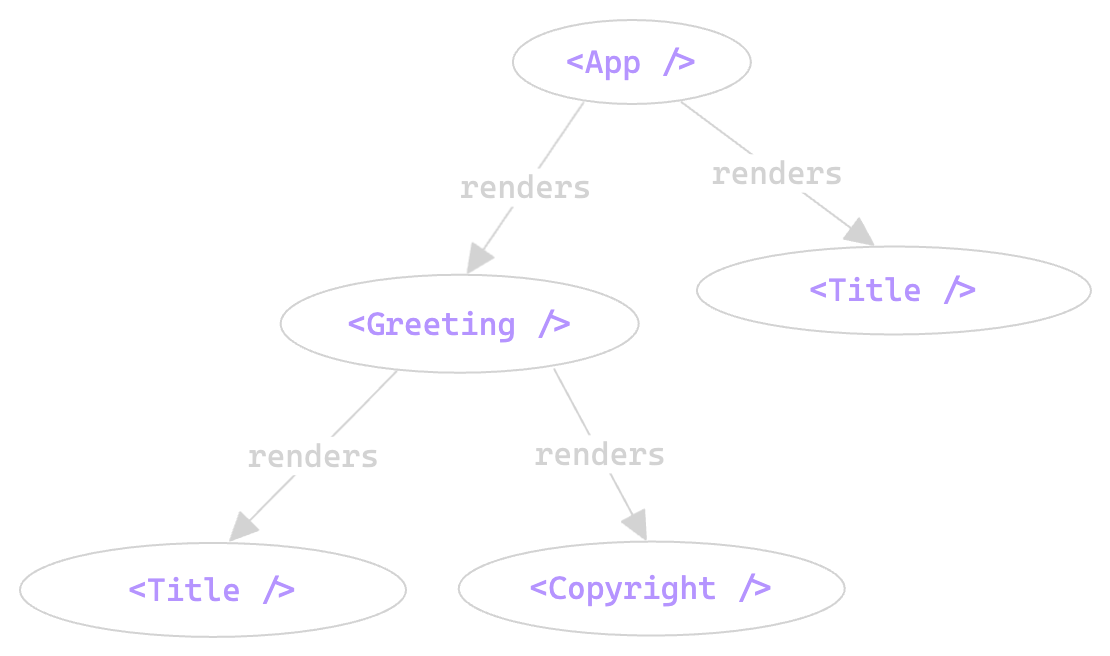
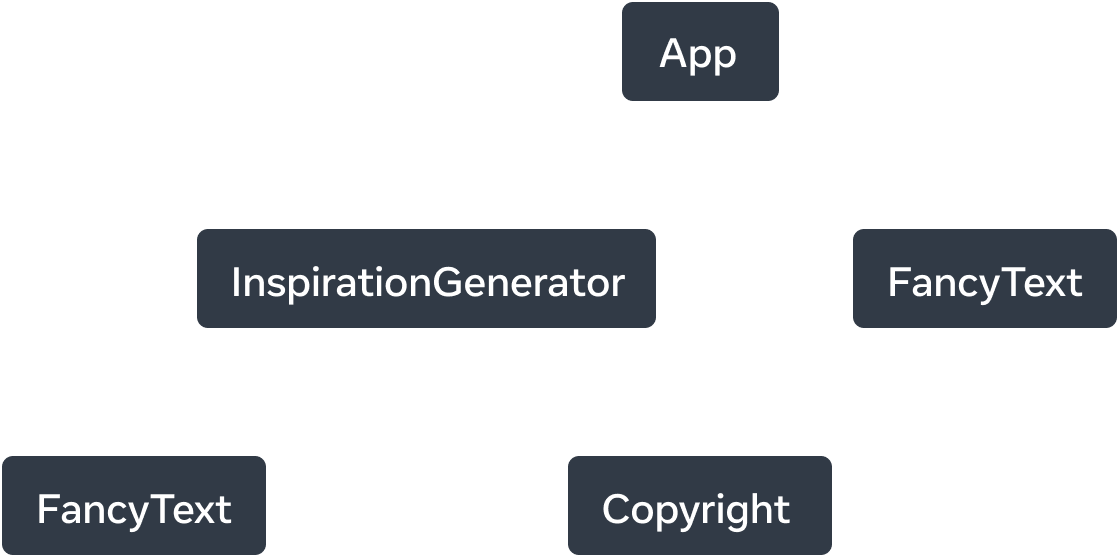
address feedback and update images

diff --git a/src/content/learn/understanding-your-ui-as-a-tree.md b/src/content/learn/understanding-your-ui-as-a-tree.md
@@ -20,14 +20,14 @@ React, and many other UI libraries, model UI as a tree. Thinking of your app as 
 
 ## Your UI as a tree {/*your-ui-as-a-tree*/}
 
-Trees are a relationship model between items and UI is often represented using tree structures. For example on browsers, the [DOM](https://developer.mozilla.org/docs/Web/API/Document_Object_Model/Introduction) represents HTML elements while the [CSSOM](https://developer.mozilla.org/docs/Web/API/CSS_Object_Model) does the same for CSS. Similar for mobile, platform views relate to one another in a tree format. There’s even an [Accessibility tree](https://developer.mozilla.org/docs/Glossary/Accessibility_tree)!
+Trees are a relationship model between items and UI is often represented using tree structures. For example, browsers use tree structures to model HTML ([DOM](https://developer.mozilla.org/docs/Web/API/Document_Object_Model/Introduction)) and CSS ([CSSOM](https://developer.mozilla.org/docs/Web/API/CSS_Object_Model)). Mobile platforms also use trees to represent their view hierarchy. 
 
 <Diagram name="preserving_state_dom_tree" height={193} width={864} alt="Diagram with three sections arranged horizontally. In the first section, there are three rectangles stacked vertically, with labels 'Component A', 'Component B', and 'Component C'. Transitioning to the next pane is an arrow with the React logo on top labeled 'React'. The middle section contains a tree of components, with the root labeled 'A' and two children labeled 'B' and 'C'. The next section is again transitioned using an arrow with the React logo on top labeled 'React'. The third and final section is a wireframe of a browser, containing a tree of 8 nodes, which has only a subset highlighted (indicating the subtree from the middle section).">
 
-From components, React creates a UI tree which React DOM uses to render the DOM
+React creates a UI tree from your components. In this example, the UI tree is then used to render to the DOM.
 </Diagram>
 
-React also uses tree structures to manage and model the relationship between components in a React app. These trees are useful tools to understand how data flows through a React app and how to optimize rendering and app size.
+Like browsers and mobile platforms, React also uses tree structures to manage and model the relationship between components in a React app. These trees are useful tools to understand how data flows through a React app and how to optimize rendering and app size.
 
 ## The Render Tree {/*the-render-tree*/}
 
@@ -35,51 +35,51 @@ A major feature of components is the ability to compose components of other comp
 
 When we render a React app, we can model this relationship in a tree, known as the render tree.
 
-Here is a React app that renders a random greeting. 
+Here is a React app that renders inspirational quotes. 
 
 <Sandpack>
 
 ```js App.js
-import Title from './Title';
-import Greeting from './Greeting';
+import FancyText from './FancyText';
+import InspirationGenerator from './InspirationGenerator';
 import Copyright from './Copyright';
 
 export default function App() {
   return (
     <>
-      <Title text="Generate a random greeting" />
-      <Greeting>
+      <FancyText title text="Get Inspired App" />
+      <InspirationGenerator>
         <Copyright year={2004} />
-      </Greeting>
+      </InspirationGenerator>
     </>
   );
 }
 
 ```
 
-```js Title.js
-export default function Title({fancy, text}) {
-    return <h1 className={fancy ? 'fancy' : ''}>{text}</h1>;
+```js FancyText.js
+export default function FancyText({title, text}) {
+  return title
+    ? <h1 className='fancy title'>{text}</h1>
+    : <h3 className='fancy cursive'>{text}</h3>
 }
 ```
 
-```js Greeting.js
+```js InspirationGenerator.js
 import * as React from 'react';
-import greetings from './greetings';
-import Title from './Title';
+import quotes from './quotes';
+import FancyText from './FancyText';
 
-function randIndex(max) {
-  return Math.floor(Math.random() * max);
-}
+export default function InspirationGenerator({children}) {
+  const [index, setIndex] = React.useState(0);
+  const quote = quotes[index];
+  const next = () => setIndex((index + 1) % quotes.length);
 
-export default function Greeting({children}) {
-  const [index, setIndex] = React.useState(randIndex(greetings.length));
-  const greeting = greetings[index];
-  const nextGreeting = () => setIndex(randIndex(greetings.length));
   return (
     <>
-      <Title fancy text={greeting} />
-      <button onClick={nextGreeting}>🎲</button>
+      <p>Your inspirational quote is:</p>
+      <FancyText text={quote} />
+      <button onClick={next}>Inspire me again</button>
       {children}
     </>
   );
@@ -88,42 +88,55 @@ export default function Greeting({children}) {
 
 ```js Copyright.js
 export default function Copyright({year}) {
-  return <p>© {year}</p>;
+  return <p className='small'>© {year}</p>;
 }
 ```
 
-```js greetings.js
-export default ['Howdy!', 'Hello2!', 'Hello3!', 'Hello3!', 'Hello4!'];
+```js quotes.js
+export default [
+  "Don’t let yesterday take up too much of today.” — Will Rogers",
+  "Ambition is putting a ladder against the sky.",
+  "A joy that's shared is a joy made double.",
+  ];
 ```
 
 ```css
 .fancy {
-    font-style: italic;
-    color: blue;
+  font-family: 'Georgia';
+}
+.title {
+  color: #007AA3;
+  text-decoration: underline;
+}
+.cursive {
+  font-style: italic;
+}
+.small {
+  font-size: 10px;
 }
 ```
 
 </Sandpack>
 
-<Diagram name="render_tree" height={300} width={509} alt="Tree graph with 5 nodes. The root of the tree is App, with two arrows extending from it to nodes Greeting and Title. The arrows are labelled renders. Greeting node also has two arrows extended pointing down to nodes Title and Copyright.">
+<Diagram name="render_tree" height={250} width={500} alt="Tree graph with five nodes. Each node represents a component. The root of the tree is App, with two arrows extending from it to 'InspirationGenerator' and 'FancyText'. The arrows are labelled with the word 'renders'. 'InspirationGenerator' node also has two arrows pointing to nodes 'FancyText' and 'Copyright'.">
 
 React creates a UI tree made of components rendered, known as a render tree.
 
 </Diagram>
 
-From the example app, we can construct the above render tree. Each node in the tree represents a component and the root node is the [root component](/learn/importing-and-exporting-components#the-root-component-file). In this case, the root component is `App` and it is the first component React renders. Each arrow in the tree points from a parent component to a child component.
+From the example app, we can construct the above render tree. 
 
-We often refer to the components near the root of the tree as "top-level components". They are ancestors and have a lot of descendent components. Components that have no children are referred to as "leaves". 
+The tree is composed of nodes, each of which represents a component. `App`, `FancyText`, `Copyright`, to name a few, are all nodes in our tree. 
 
+The root node in a React render tree is the [root component](/learn/importing-and-exporting-components#the-root-component-file) of the app. In this case, the root component is `App` and it is the first component React renders. Each arrow in the tree points from a parent component to a child component.
 
-[comment]: <> (I'm not sure if we should have this, I think I'm trying to get the point across that render trees are platform-agnostic tool for understanding your React app)
 <DeepDive>
 
 #### Where are the HTML tags in the render tree? {/*where-are-the-html-elements-in-the-render-tree*/}
 
 You'll notice in the above render tree, there is no mention of the HTML tags that each component renders. This is because the render tree is only composed of React [components](learn/your-first-component#components-ui-building-blocks). 
 
-React, as a UI framework, is platform agonistic. On react.dev, we showcase examples that render to the web, which uses HTML markup as its UI primitives. But a React app could just as likely render to a mobile or desktop platform, which may use different UI primitives like [UIView](https://developer.apple.com/documentation/uikit/uiview) or [Framework Element](https://learn.microsoft.com/en-us/dotnet/api/system.windows.frameworkelement?view=windowsdesktop-7.0).
+React, as a UI framework, is platform agnostic. On react.dev, we showcase examples that render to the web, which uses HTML markup as its UI primitives. But a React app could just as likely render to a mobile or desktop platform, which may use different UI primitives like [UIView](https://developer.apple.com/documentation/uikit/uiview) or [Framework Element](https://learn.microsoft.com/en-us/dotnet/api/system.windows.frameworkelement?view=windowsdesktop-7.0).
 
 These platform UI primitives are not a part of React. React render trees can provide insight to our React app regardless of what platform your app renders to.
 
@@ -131,99 +144,115 @@ These platform UI primitives are not a part of React. React render trees can pro
 
 A render tree represents a single render pass of a React application. With [conditional rendering](/learn/conditional-rendering), a parent component may render different children depending on the data passed.
 
-We can update the Greeting app to conditionally render either an image or a text greeting.
+We can update the app to conditionally render either an inspirational quote or color.
 
 <Sandpack>
 
 ```js App.js
-import { Title } from './GreetingMedia';
-import Greeting from './Greeting';
+import FancyText from './FancyText';
+import InspirationGenerator from './InspirationGenerator';
 import Copyright from './Copyright';
 
 export default function App() {
   return (
     <>
-      <Title text="Generate a random greeting" />
-      <Greeting>
+      <FancyText title text="Get Inspired App" />
+      <InspirationGenerator>
         <Copyright year={2004} />
-      </Greeting>
+      </InspirationGenerator>
     </>
   );
 }
 
 ```
 
-```js GreetingMedia.js
-export function Title({fancy, text}) {
-  return <h1 className={fancy ? 'fancy' : ''}>{text}</h1>;
-}
-
-export function Image({src}) {
-  return <img src={src} />;
+```js FancyText.js
+export default function FancyText({title, text}) {
+  return title
+    ? <h1 className='fancy title'>{text}</h1>
+    : <h3 className='fancy cursive'>{text}</h3>
 }
 ```
 
-```js Greeting.js
-import * as React from 'react';
-import greetings from './greetings';
-import {Title, Image} from './GreetingMedia';
-
-function randIndex(max) {
-  return Math.floor(Math.random() * max);
+```js Color.js
+export default function Color({value}) {
+  return <div className="colorbox" style={{backgroundColor: value}} / >
 }
+```
 
-export default function Greeting({children}) {
-  const [index, setIndex] = React.useState(randIndex(greetings.length));
-  const greeting = greetings[index];
-  const nextGreeting = () => setIndex(randIndex(greetings.length));
+```js InspirationGenerator.js
+import * as React from 'react';
+import inspirations from './inspirations';
+import FancyText from './FancyText';
+import Color from './Color';
+
+export default function InspirationGenerator({children}) {
+  const [index, setIndex] = React.useState(0);
+  const inspiration = inspirations[index];
+  const next = () => setIndex((index + 1) % inspirations.length);
+
   return (
     <>
-      {greeting.type === 'text' ? (
-        <Title fancy text={greeting.value} />
-      ) : (
-        <Image src={greeting.value} />
-      )}
-      <button onClick={nextGreeting}>🎲</button>
+      <p>Your inspirational {inspiration.type} is:</p>
+      {inspiration.type === 'quote'
+      ? <FancyText text={inspiration.value} />
+      : <Color value={inspiration.value} />}
+      
+      <button onClick={next}>Inspire me again</button>
       {children}
     </>
   );
 }
-
 ```
 
 ```js Copyright.js
 export default function Copyright({year}) {
-  return <p>© {year}</p>;
+  return <p className='small'>© {year}</p>;
 }
 ```
 
-```js greetings.js
+```js inspirations.js
 export default [
-    {type: 'text', value: 'Howdy!'},
-    {type: 'text', value: 'Hello!'},
-    {type: 'image', value: 'https://i.imgur.com/yXOvdOSs.jpg'},
-    {type: 'image', value: 'https://i.imgur.com/yXOvdOSs.jpg'},
-    {type: 'text', value: 'Howdy!'},
+  {type: 'quote', value: "Don’t let yesterday take up too much of today.” — Will Rogers"},
+  {type: 'color', value: "#B73636"},
+  {type: 'quote', value: "Ambition is putting a ladder against the sky."},
+  {type: 'color', value: "#256266"},
+  {type: 'quote', value: "A joy that's shared is a joy made double."},
+  {type: 'color', value: "#F9F2B4"},
 ];
 ```
 
 ```css
 .fancy {
-    font-style: italic;
-    color: blue;
+  font-family: 'Georgia';
+}
+.title {
+  color: #007AA3;
+  text-decoration: underline;
+}
+.cursive {
+  font-style: italic;
+}
+.small {
+  font-size: 10px;
+}
+.colorbox {
+  height: 100px;
+  width: 100px;
+  margin: 8px;
 }
 ```
 </Sandpack>
 
-<Diagram name="conditional_render_tree" height={300} width={522} alt="TODO.">
+<Diagram name="conditional_render_tree" height={250} width={561} alt="Tree graph with six nodes. The top node of the tree is labelled 'App' with two arrows extending to nodes labelled 'InspirationGenerator' and 'FancyText'. The arrows are solid lines and are labelled with the word 'renders'. 'InspirationGenerator' node also has three arrows. The arrows to nodes 'FancyText' and 'Color' are dashed and labelled with 'renders?'. The last arrow points to the node labelled 'Copyright' and is solid and labelled with 'renders'.">
 
 With conditional rendering, across different renders, the render tree may render different components.
 
 </Diagram>
 
-In this example, depending on what `greeting.type` is, we may render `<Title>` or `<Image>`. The render tree may be different for each render pass.
+In this example, depending on what `inspiration.type` is, we may render `<FancyText>` or `<Color>`. The render tree may be different for each render pass.
 
-Although render trees may differ across render pases, these trees are generally helpful for identifying what the top-level components are in a React app. Top-level components affect the rendering performance of all the components beneath them and often contain the most complexity.
+Although render trees may differ across render pases, these trees are generally helpful for identifying what the top-level and leaf components are in a React app. Top-level components are the components nearest to the root component and affect the rendering performance of all the components beneath them and often contain the most complexity. Leaf components are near the bottom of the tree and have no child components and are often frequently re-rendered. Identifying these categories of components are useful for understanding data flow and performance of your app.
 
 ## The Module Dependency Tree {/*the-module-dependency-tree*/}
 
@@ -231,11 +260,11 @@ Another relationship in a React app that can be modeled with a tree are an app's
 
 Each node in a module dependency tree is a module and each branch represents an `import` statement in that module.
 
-If we take the previous Greeting app, we can build a module dependency tree, or dependency tree for short. 
+If we take the previous Inspirations app, we can build a module dependency tree, or dependency tree for short. 
 
-<Diagram name="module_dependency_tree" height={400} width={761} alt="TODO.">
+<Diagram name="module_dependency_tree" height={250} width={658} alt="A tree graph with seven nodes. Each node is labelled with a module name. The top level node of the tree is labelled 'App.js'. There are three arrows pointing to the modules 'InspirationGenerator.js', 'FancyText.js' and 'Copyright.js' and the arrows are labelled with 'imports'. From the 'InspirationGenerator.js' node, there are three arrows that extend to three modules: 'FancyText.js', 'Color.js', and 'inspirations.js'. The arrows are labelled with 'imports'.">
 
-The module dependency tree for the Greetings app
+The module dependency tree for the Inspirations app.
 
 </Diagram>
 
@@ -243,13 +272,13 @@ The root node of the tree is the root module, also known as the entrypoint file.
 
 Comparing to the render tree of the same app, there are similar structures but some notable differences:
 
-* Tree nodes are modules vs. components. Often, a module exports a single component but in this case `GreetingMedia.js` exports both `Title` and `Image`.
-* Non-component modules are also represented in this tree. The render tree only encapsulates components.
-* `Copyright.js` appears under `App.js` but in the render tree, `Copyright`, the component, appears as a child of `Greeting`. This is because `Greeting` accepts JSX as children. 
+* The nodes that make-up the tree represent modules, versus components. 
+* Non-component modules, like `inspirations.js`, are also represented in this tree. The render tree only encapsulates components.
+* `Copyright.js` appears under `App.js` but in the render tree, `Copyright`, the component, appears as a child of `InspirationGenerator`. This is because `InspirationGenerator` accepts JSX as children props. 
 
-Dependency trees are useful to determine what modules are necessary to run your React app. When building a React app for production, there is typically a build step that will bundle all the necessary JavaScript to ship to the client. The tool responsible for this is called a bundler, and bundlers will use the dependency tree to determine what modules should be included.
+Dependency trees are useful to determine what modules are necessary to run your React app. When building a React app for production, there is typically a build step that will bundle all the necessary JavaScript to ship to the client. The tool responsible for this is called a [bundler](https://developer.mozilla.org/en-US/docs/Learn/Tools_and_testing/Understanding_client-side_tools/Overview#the_modern_tooling_ecosystem), and bundlers will use the dependency tree to determine what modules should be included.
 
-As your app grows, often the bundle size does too. Large bundle sizes are expensive for a client to download and run so getting a sense of your app's dependency tree may help with debugging the issue.
+As your app grows, often the bundle size does too. Large bundle sizes are expensive for a client to download and run and delays the time for your UI to get drawn. Getting a sense of your app's dependency tree may help with debugging these issues.
 
 [comment]: <> (perhaps we should also deep dive on conditional imports)
 
@@ -258,10 +287,10 @@ As your app grows, often the bundle size does too. Large bundle sizes are expens
 * Trees are a common way to represent the relationship between entities. They are often used to model UI.
 * Render trees represent the nested relationship between React components across a single render.
 * With conditional rendering, the render tree may change across different renders. With different prop values, components may render different children components. 
-* Render trees help identify what the top-level components are. Top-level components affect the rendering performance of all components beneath them. Identifying them is useful for debugging slow renders.
+* Render trees help identify what the top-level and leaf components are. Top-level components affect the rendering performance of all components beneath them and leaf components are often re-rendered frequently. Identifying them is useful for understanding and debugging rendering performance.
 * Dependency trees represent the module dependencies in a React app.
 * Dependency trees are used by build tools to bundle the necessary code to ship an app.
-* Dependency trees are useful for debugging large bundle sizes and opportunities for optimizing what code is bundled.
+* Dependency trees are useful for debugging large bundle sizes that slow time to paint and expose opportunities for optimizing what code is bundled.
 
 </Recap>
 
